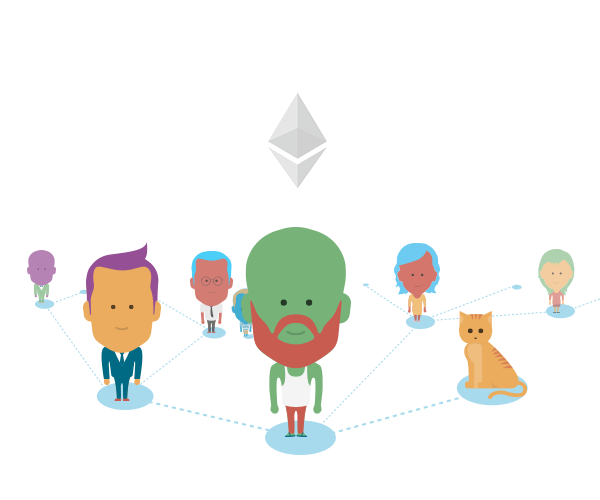
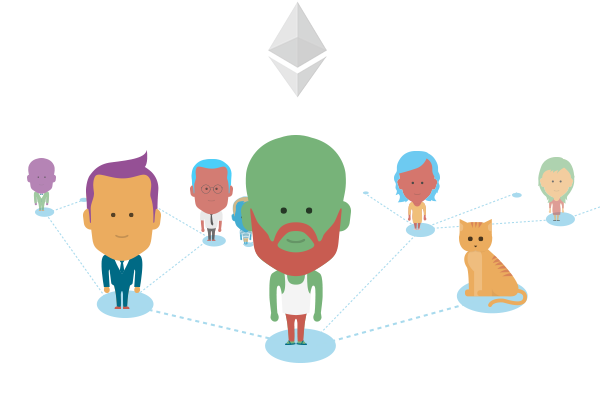
Dan kan onze jarige dieje selector fixe

diff --git a/app/styles/app-theme.html b/app/styles/app-theme.html
@@ -377,7 +377,7 @@ subject to an additional IP rights grant found at http://polymer.github.io/PATEN
          @apply(--layout-vertical);
       @apply(--layout-center-center);
       box-sizing:border-box;
-      padding: 12vh 10vw 0vw 10vw;   
+      padding: 6vh 10vw 0vw 10vw;   
       background-color: var(--blauw-theme-color);
       text-align: center;
     }
@@ -506,14 +506,13 @@ subject to an additional IP rights grant found at http://polymer.github.io/PATEN
 
     .whatis h2 {
       text-align: center;
-      margin: 20px 0px 0px 0px;
+      margin: 20px 0px 20px 0px;
     }
 
     .onderdeel {
       width: 100%;
       @apply(--layout-horizontal);
       @apply(--layout-start);
-      @apply(--layout-center-center);
       @apply(--layout-wrap);
     }
 
@@ -521,6 +520,9 @@ subject to an additional IP rights grant found at http://polymer.github.io/PATEN
       max-width: 750px;
       @apply(--layout-vertical);
       @apply(--layout-start);
+      text-align: left;
+      margin: 0px 0px 20px 0px;
+
     }
 
     .onderdeelbtn {
@@ -839,6 +841,10 @@ subject to an additional IP rights grant found at http://polymer.github.io/PATEN
   /* mobile-small */
   @media all and (min-width: 0) and (max-width: 360px) and (orientation: portrait) {
 
+    .headtitle {
+      padding: 12vh 10vw 0vw 10vw;   
+    }
+
     .maintitle {
       font-size: 52px;
       text-align: center;
@@ -857,11 +863,30 @@ subject to an additional IP rights grant found at http://polymer.github.io/PATEN
     .joinbtn {
       width: 100%;    
     }
+
+    .onderdeeltxt {
+      text-align: center;
+    }
+
+    .whatis h2 {
+      text-align: center;
+      margin: 20px 0px 20px 0px;
+    }
+
+
+
   }
 
 
   /* mobile-large */
   @media all and (min-width: 361px) and (orientation: portrait) {
+
+
+    .headtitle {
+      padding: 12vh 10vw 0vw 10vw;   
+    }
+
+
     .maintitle {
       font-size: 52px;
       text-align: center;
@@ -900,6 +925,16 @@ subject to an additional IP rights grant found at http://polymer.github.io/PATEN
     .contact a {
       font-size: 14px;
     }
+    .onderdeeltxt {
+      text-align: center;
+    }
+
+
+    .whatis h2 {
+      text-align: center;
+      margin: 20px 0px 20px 0px;
+    }
+
 
 
   }

diff --git a/app/index.html b/app/index.html
@@ -118,6 +118,17 @@ subject to an additional IP rights grant found at http://polymer.github.io/PATEN
                     <img src="../images/decentralised-locals.png">
                     </div>
                 </div>
+
+            <div class="contentsectie darkerback">
+              <div class="whatis">
+                    <h2><i18n-msg msgid="whatis2tittel"></i18n-msg></h2>
+                    <div class="onderdeel">
+                    <div class="onderdeeltxt">
+                      <p><i18n-msg msgid="whatis2txt"></i18n-msg></p>
+                    </div>
+                    <img src="../images/decentralised-locals.png">
+                    </div>
+                </div>
 <!--                 <div class="onderdeel">
                   <div class="onderdeeltxt">
                     <h2><i18n-msg msgid="watis2"></i18n-msg></h2>

diff --git a/app/scripts/app.js b/app/scripts/app.js
@@ -42,7 +42,7 @@ subject to an additional IP rights grant found at http://polymer.github.io/PATEN
   });
 
   document.addEventListener('HTMLImportsLoaded', function() {
-    I18nMsg.lang = 'nl';
+    I18nMsg.lang = 'en';
     I18nMsg.url = 'locales'; // optionally use custom folder for locales.
     Platform.performMicrotaskCheckpoint();
   });
